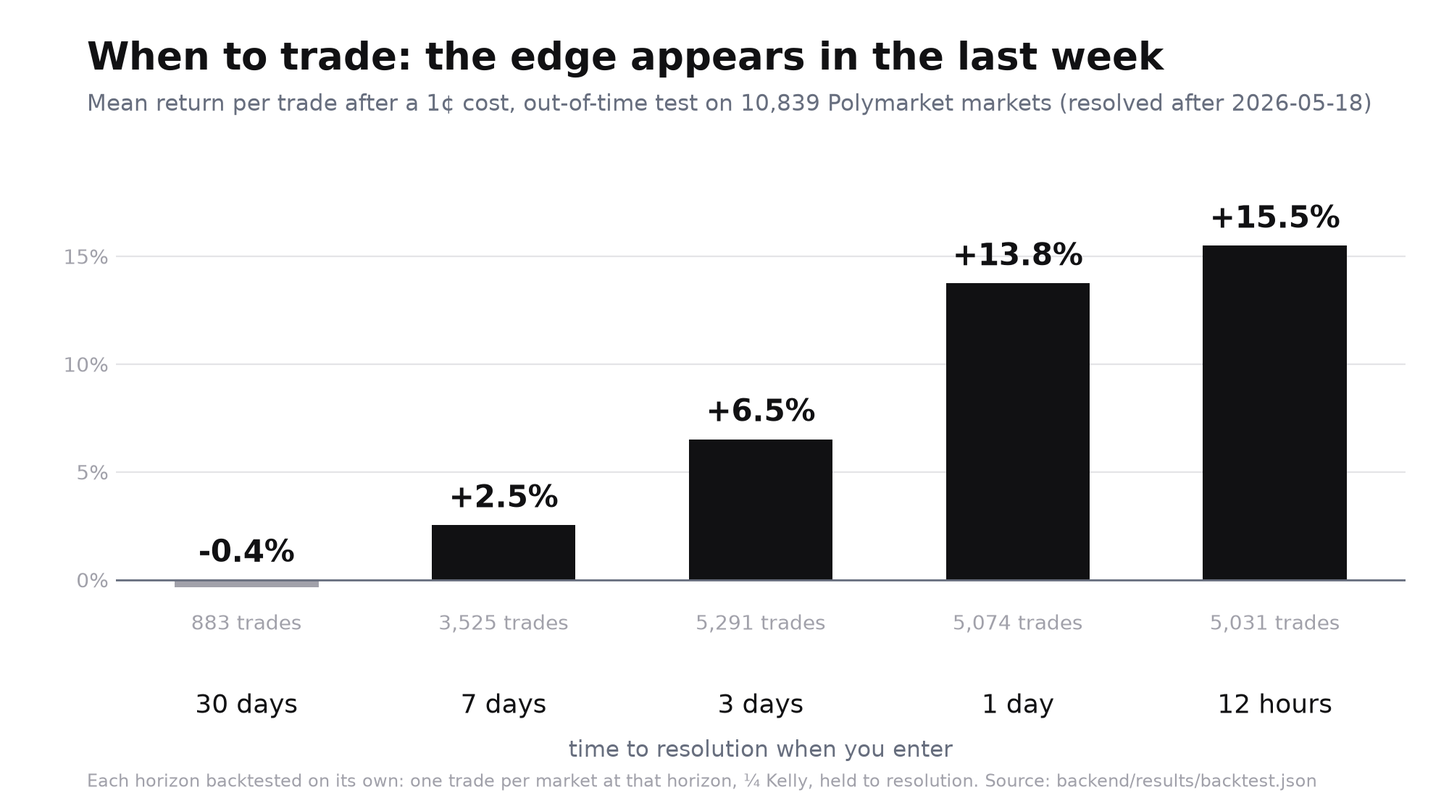
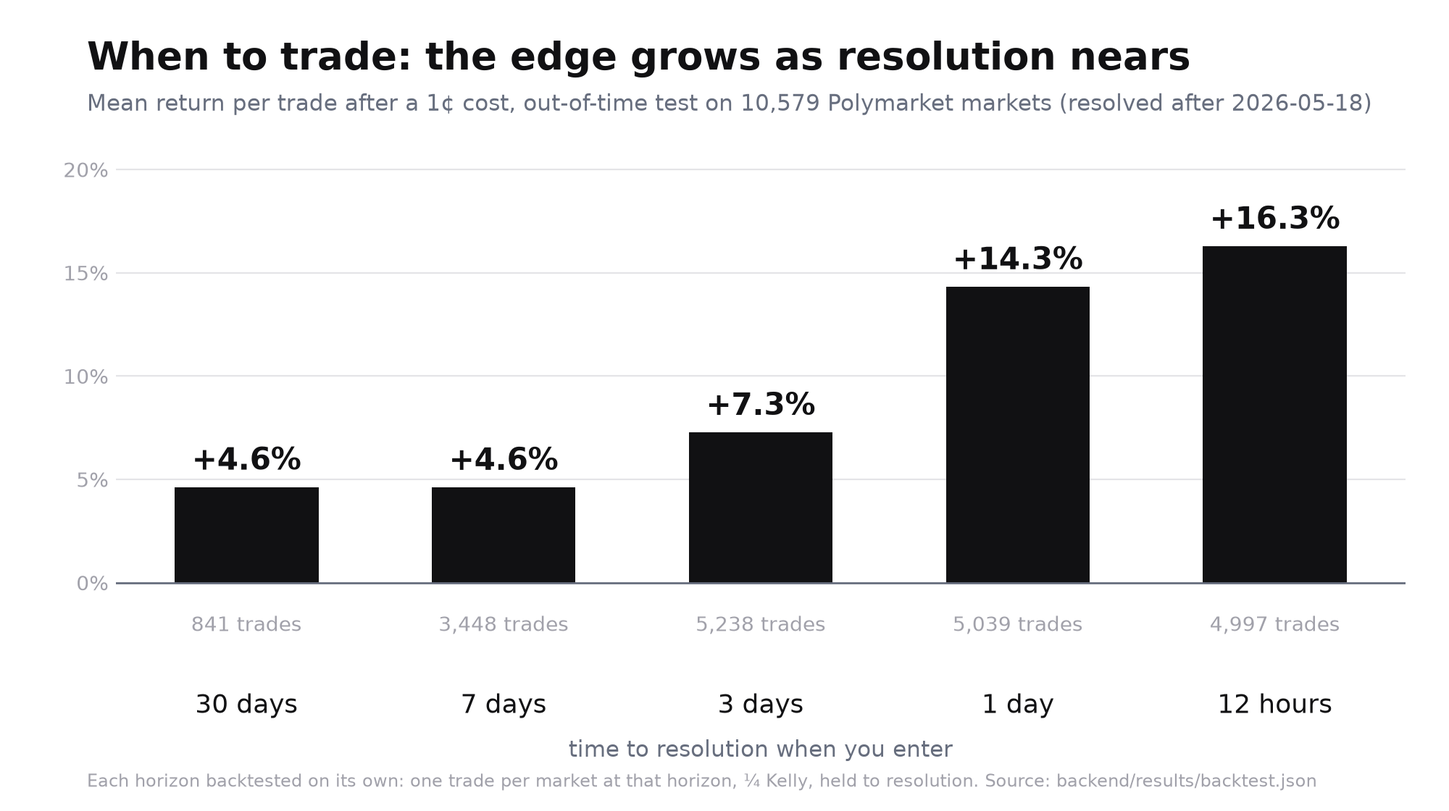
Pitch: A's 14:46 numbers (+304%, test 10,579), forward-test beat, new chart title
All four docs on the rerun after dropping the 260 pre-cutoff legs; '30 days: no edge'
and 'every horizon' removed per A's 14:46/15:20. Script walked against the Vercel screen.

diff --git a/integrations/pitch/make_charts.py b/integrations/pitch/make_charts.py
@@ -37,7 +37,7 @@ def when_to_trade():
     ax.yaxis.set_major_formatter(lambda v, _: f"{v:.0f}%")
     ax.set_xlabel("time to resolution when you enter", fontsize=11, color=MUTED, labelpad=10)
 
-    fig.text(0.06, 0.95, "When to trade: the edge appears in the last week",
+    fig.text(0.06, 0.95, "When to trade: the edge grows as resolution nears",
              fontsize=19, color=INK, fontweight="bold", va="top")
     fig.text(0.06, 0.885,
              f"Mean return per trade after a 1¢ cost, out-of-time test on {bt['n_test_markets']:,} Polymarket markets "

diff --git a/integrations/pitch/QA_CHEATSHEET.md b/integrations/pitch/QA_CHEATSHEET.md
@@ -1,29 +1,32 @@
 # Judge Q&A cheat sheet — HRT (Role C)
 
-Short answers first, detail only if they push. Every number is from `backend/results/*.json` or `backend/model.py` (15:20 Sat).
+Short answers first, detail only if they push. Every number is from `backend/results/*.json` (A's 14:46 rerun, after
+dropping the 260 pre-cutoff test legs) or `backend/model.py`. Checked against the live screen at 15:55 Sat.
 Golden rule: if you don't know, say "we didn't measure that", then say what we would do. Never guess a number.
 
-## The 20 numbers to know cold
+## The numbers to know cold
 | what | value |
 |---|---|
-| markets total / train / test | 34,677 / 23,838 / 10,839 |
-| split | by time: train = events ended before **18 May 2026**, test = after; all legs of an event on one side |
+| markets used / train / test | 34,417 / 23,838 / 10,579 (34,677 pulled; 260 test legs that resolved before the cutoff dropped) |
+| split | by time: train = events ended before **18 May 2026**; test = markets of later events that resolved after it |
 | horizons | 30d, 7d, 3d, 1d, 12h before the **scheduled** end date |
 | price band modelled & traded | 3–97¢ |
-| calibration slope | ≈ 0.85 at every horizon (< 1 = prices overconfident) |
-| Brier, model vs market (test) | **0.1274 vs 0.1281** |
-| log loss, model vs market (test) | 0.3851 vs 0.3871 |
-| validation log loss, market / simple / full | 0.5688 / 0.5645 / 0.5682 → "simple" chosen |
-| trades (with costs) | 7,228 |
-| profit after costs | **+2.77 starting bankrolls**, additive, 90% CI [1.41, 4.07] (event bootstrap) |
-| profit without costs | +7.06 (8,209 trades) |
+| calibration | slope ≈ 0.85 pooled; 30d test about fair (15¢ → 12.8%, n=492), 7d–12h overconfident (15¢ → 18–20%) |
+| Brier, model vs market (test) | **0.1297 vs 0.1305** |
+| log loss, model vs market (test) | 0.3917 vs 0.3940 |
+| validation log loss, market / simple / full | 0.5688 / 0.5645 / 0.5672 → "simple" chosen |
+| trades (with costs) | 7,106 (6,286 buy YES, 820 buy NO) |
+| profit after costs | **+304% of starting bankroll** (3.05 bankrolls, summed), 90% CI [+184%, +440%] (event bootstrap) |
+| profit without costs | +759% (8,054 trades) |
 | hit rate | 24% (longshot-heavy) |
 | max drawdown | **42%** of starting bankroll |
-| concentration | top 10 events = 1.03 of the 2.77 |
-| naive "always back the favourite" | **−7.1** (2% flat stakes, 73% hit rate, same markets) |
-| return per $1 trade by entry horizon (costs) | 30d −0.4% · 7d +2.5% · 3d +6.5% · 1d +13.8% · 12h +15.5% |
+| concentration | top 10 events = 1.03 of the 3.05 bankrolls; without them +2.02 |
+| by domain | sports **+185%** [+111%, +263%] (4,475 trades), science/tech +42% [+16%, +72%]; all others' CIs include 0 |
+| naive "always back the favourite" | **−741%** (2% flat stakes, 8,372 trades, 73% hit rate, same markets) |
+| return per $1 trade by entry horizon (costs) | 30d +4.6% · 7d +4.6% · 3d +7.3% · 1d +14.3% · 12h +16.3% |
 | cost | max(live spread / 2, 1¢) per contract, fee 0 |
 | stake | ¼ Kelly on the conservative q, capped at 5% of starting bankroll |
+| forward test | snapshot 15:43 Sat, 163 open markets ending within 48 h, 75 trades; see `integrations/forward/score.json` |
 
 ## Model
 **Q: What exactly is the model?** Logistic regression, 4 coefficients: intercept, logit(price), log(horizon) and
@@ -31,18 +34,19 @@ logit(price) × log(horizon). It learns how much to shrink each price toward 50%
 resolution.
 
 **Q: Why so simple? Did you try more?** Yes. A "full" version with domain terms (and their interactions) scored worse on
-validation (log loss 0.5682 vs 0.5645), so it overfit. We picked on validation (last 20% of train by time) and never
+validation (log loss 0.5672 vs 0.5645), so it overfit. We picked on validation (last 20% of train by time) and never
 touched test while choosing.
 
-**Q: Brier 0.1274 vs 0.1281 is tiny. Is that significant?** The market is a very strong baseline, so a small gain is
+**Q: Brier 0.1297 vs 0.1305 is tiny. Is that significant?** The market is a very strong baseline, so a small gain is
 what you'd expect. Significance is in the money test, not the Brier: the 90% CI on profit, bootstrapped by event, is
-[1.41, 4.07] and excludes zero. And we only trade where the edge clears costs *and* the model's own 10–90% interval.
+[+184%, +440%] and excludes zero. And we only trade where the edge clears costs *and* the model's own 10–90% interval.
 
 **Q: Why does the bias exist?** We measure it, we don't explain it. Plausible stories: demand for cheap lottery-ticket
 contracts, thin order books near resolution. Don't go further than that.
 
-**Q: Isn't this just the favourite-longshot bias?** Largely yes, and from horse racing that's a known pattern. What we add
-is the *when*: it is only tradable in the last week, and it's worth nothing a month out.
+**Q: Isn't this just the favourite-longshot bias?** Largely yes; it's a known pattern from horse racing. What we add is
+the *when*: the market is about fair a month out and gets overconfident as resolution nears, and the return per trade
+roughly triples from 30 days out (+4.6%) to a day out (+14.3%).
 
 ## Look-ahead and leakage (they WILL ask)
 **Q: How do you know there's no look-ahead?**
@@ -50,22 +54,34 @@ is the *when*: it is only tradable in the last week, and it's worth nothing a mo
    markets close early when the answer is known.
 2. Price = last trade at or before the horizon moment.
 3. A row only exists if the market was still open at that moment.
-4. The train/test split is by time, and all markets of one event stay on one side.
+4. The split is by time, all markets of one event stay on one side, and test markets that resolved before the cutoff
+   are dropped (260 of them: early legs of long events, caught in our own QA).
 5. The model is chosen on validation inside train; test is touched once.
+6. And the forward test can't have look-ahead at all: the calls were pushed to GitHub before the outcomes existed.
 
 **Q: Correlated markets?** "Who wins the Ballon d'Or" is ~30 markets that are basically one bet. That's why the split
 keeps events together, and every CI resamples whole events, not markets.
 
+## Forward test (the one nobody can overfit)
+**Q: How do we know you didn't pick the snapshot after seeing results?** The snapshot file is in a commit pushed to
+GitHub at 15:43 Sat (PR timeline shows the push time), before the matches. Every 2 hours after that a new snapshot was
+pushed, and the scorer takes each market from its *earliest* snapshot. q is a deterministic function of the price and
+the clock, from the same model as the screen (refit reproduces live.json to 5e-5).
+**Q: Which markets are scored?** Only markets whose *scheduled* end date has passed. Scoring "whatever resolved early"
+would select on the outcome ("X by Friday" resolves early only if X happened).
+**Q: So does it prove the edge?** No: a day of trades is far too few. It proves the pipeline makes real calls in real
+time and that we're not fitting history. The evidence for the edge is the backtest's interval.
+
 ## Backtest
 **Q: How is P&L computed?** One trade per market, at the earliest horizon where the net edge is positive, held to
 resolution. Return per $1 = payout / (price + cost) − 1. Stake ¼ Kelly. P&L is added up, not compounded, because
-positions overlap in time.
+positions overlap in time. "+304%" = the sum of stakes × returns, as a share of the starting bankroll.
 
 **Q: 42% drawdown?** Yes. The equity curve falls before it rises: a longshot strategy loses often and wins big. That's the
 honest picture at ¼ Kelly with a 5% cap. A real deployment would size smaller.
 
-**Q: Is it a few lucky events?** Top 10 events are 1.03 of 2.77. That's concentrated, so the CI is computed by
-resampling events, and it still excludes zero.
+**Q: Is it a few lucky events?** Top 10 events are 1.03 of the 3.05 bankrolls, several of them Bitcoin-price ladders.
+Without them it's still +2.02. The CI is computed by resampling events, and it excludes zero.
 
 **Q: Costs?** max(half the quoted spread, 1¢) per contract, no fee. Polymarket's API has no historical order book, so
 for resolved markets it's the 1¢ floor. Live markets show a median spread around 1¢ (≥ $50k volume).
@@ -74,27 +90,25 @@ ask could be worse. Next step: on-chain fills for true historical spreads.
 
 **Q: Capacity?** Not measured. Volume filter is ≥ $50k per market; stakes capped at 5%. We'd need order-book depth.
 
-**Q: Why does 12h look better per trade than 1–7d, if "the edge is 1–7 days"?** The per-horizon chart answers "if you could
-only trade at this horizon". The main backtest enters at the *earliest* horizon with an edge, so most profit is booked
-from 1–7 days out.
+**Q: The per-horizon bars don't add up to 7,106 trades.** Each bar is its own backtest: "if you could only trade at this
+horizon". The main backtest enters at the *earliest* horizon with an edge, once per market.
 
-**Q: Why does the test equity curve start in 2025 if the cutoff is May 2026?** The split is by *event*: an event goes
-to test if its last market resolved after the cutoff, so early legs of long events (e.g. a tennis major's "winner"
-markets) resolved earlier. That's 260 of 10,839 test markets (2.4%). It keeps correlated legs together; for those 260 the model
-was trained on slightly later data. [A to confirm whether dropping them changes the result.]
+**Q: 30 days out calibration is "about fair", but the bar says +4.6%?** The bar is 841 trades, a small, noisy edge;
+the calibration bins at 30d are within noise of fair. We don't claim a month-out edge.
 
 **Q: Test period?** Markets resolved after 18 May 2026: about five months, one regime. That's a fair limitation.
 
 ## Where it fails (say it proudly)
-- 30 days out: no lift (Brier 0.1020 vs 0.1019).
-- Crypto at 1–7 days, politics at most horizons: no lift.
+- 30 days out: no Brier lift (0.1050 vs 0.1051).
+- Crypto at every horizon, culture at every horizon, politics at 3–7 days: no lift. 26 cells in total on the screen.
+- Only sports is solid by domain; everything else's CI includes 0.
 - "Other" domain: 2–3 test markets, too few to say anything.
 - Under 10¢ a day out, contracts resolve YES ~3%. Very cheap longshots are *not* underpriced; the effect is ~10–35¢.
-- By domain after the tweet-count relabel (A, 14:29): sports +1.84 of the 2.77 (4,484 trades).
 
 ## The honesty story (use it if asked "what went wrong?")
 Our first 3,100-market sample said "politics, a month out". On 34,677 markets that didn't replicate: the small sample
 was top-volume and politics-heavy. The direction (overconfident prices) held; the location didn't. We dropped it.
+Second catch: 260 test markets had resolved before the cutoff (early legs of long events). We dropped them and reran.
 
 ## Team / process
 Three roles with Claude Code agents. Agents message each other through per-role inbox files in the repo and review each

diff --git a/integrations/pitch/DEMO_SCRIPT.md b/integrations/pitch/DEMO_SCRIPT.md
@@ -1,54 +1,52 @@
 # Demo script — 90 seconds (Role C, TheMarkz3)
 
-Walked against the real screen (main, 14:36 Sat, localhost) and the numbers in `backend/results/*.json` (14:25 Sat).
-Rule: say only numbers that are on the screen or in `backend/results/`. If Gleb regenerates results, update this file.
-Live cards change hourly — pick the hero card on the morning of the demo (see "Hero card" below).
-Length: ~228 spoken words ≈ 95 s at 145 wpm; ~205 (≈ 85 s) without the (cut first) line — cut it unless you speak fast. Rehearse with a timer; if over, cut the line marked (cut first).
+Walked against the live screen (https://horizon-jet-mu.vercel.app, 15:55 Sat) and `backend/results/*.json` (A's 14:46 rerun).
+Rule: say only numbers that are on the screen or in `backend/results/` / `integrations/forward/score.json`. If results change, update this file.
+Live cards change hourly. Pick the hero card on the morning of the demo (see "Hero card" below).
+Length: ~225 spoken words ≈ 93 s at 145 wpm; ~200 (≈ 83 s) without the (cut first) line. Rehearse with a timer.
 
 ## 0:00–0:10 — hook · screen: headline
 "A prediction-market price is a probability with a clock on it. Research says those prices are off, depending on the
 clock. We asked a trader's question: can you make money on it, and *when*?"
 
-## 0:10–0:25 — honest test · screen: subline + KPI row
-"34,677 resolved Polymarket markets. We train on events that ended before mid-May, test on the 10,839 after, never a
-random split. Out of sample, our model beats the market price: Brier 0.1274 against 0.1281."
+## 0:10–0:22 — honest test · screen: subline + KPI row
+"34,417 resolved Polymarket markets. We train on events that ended before mid-May and test on the 10,579 after, never a
+random split. Out of sample, our model beats the market price: Brier 0.1297 against 0.1305."
 
-## 0:25–0:40 — what it learned · screen: calibration chart (1d)
-"Prices are overconfident. A day out, contracts around 15 cents win 20% of the time. The model learns how far to pull each
-price back, separately for each horizon."
+## 0:22–0:35 — what it learned · screen: calibration chart (1d, then 30d)
+"As resolution nears, prices get overconfident: a day out, 15-cent contracts win 20% of the time."
+(Click 30d.) "A month out, the market is about fair."
 
-## 0:40–1:00 — the decision · screen: Live decisions
+## 0:35–0:55 — the decision · screen: Live decisions
 "So, for every open market right now: price, our probability, and a call after a one-cent cost."
-(Point at hero card.) "[Question]: market [p], model [q]. Buy YES, quarter-Kelly."
-(Point at a "No trade" card.) "Here the gap doesn't cover costs: no trade. A third of the markets are no trade."
+(Point at hero card.) "[Question]: market [p], model [q]. Buy YES, stake [k]% of bankroll."
+(Point at a "No trade" card.) "Here the gap is inside the model's uncertainty: no trade."
 
-## 1:00–1:30 — money, and *when* · screen: equity chart + "When to act" bars
-"On the held-out markets: 7,228 trades, 2.77 starting bankrolls of profit after costs, interval 1.4 to 4.1.
-Always backing the favourite loses 7."
-(Point at "When to act".) "And here's the time part: a month out, it loses. A week out, plus 2.5% a trade. A day out, plus 14."
+## 0:55–1:10 — the forward test · screen: Forward test strip (or terminal `score.json` if it isn't on the screen)
+"Backtests are still history. So yesterday at 3:43 we committed [163] live calls to GitHub, before the matches were
+played. [N] have resolved since: [n] trades, [hit] won, [P&L]." *(Say the real numbers, whatever they are. If it lost:
+"it's [n] trades, far too few to judge, which is why we report the backtest's interval.")*
+
+## 1:10–1:30 — money, and *when* · screen: equity chart + "When to act" bars
+"On the held-out test: 7,106 trades, plus 304% of the starting bankroll after costs, interval 184 to 440.
+Always backing the favourite loses 741."
+(Point at "When to act".) "And the time part: a month out, plus 4.6% a trade. A day out, plus 14."
 (cut first) "Our first small sample said 'politics, a month out'. It didn't replicate on 11 times more data, so we threw it out."
 "Horizon tells you when a market is wrong enough to trade, and when it isn't."
 
 ## Hero card (pick on the day)
-Prefer a **sports BUY_YES** card at 1–7 days, ≥ $1M volume, and a **NO_TRADE** card right next to it.
-At 14:25 Sat that was *Will Kylian Mbappé win the 2026 Ballon d'Or?*: 18.65¢, model 22.7% (interval 22.2–23.1%),
-net edge 2.6¢, ¼-Kelly stake 0.8% of bankroll, ~63 h out, $5.9M volume. It will have resolved by Sunday.
+Prefer a **sports BUY_YES** card at 1–3 days, ≥ $1M volume, and a **No trade** card right next to it.
+Good: a card that is *also* in the forward-test snapshot, so you can say "this one is in the frozen set too".
 
 ## Say it right (judges will check)
-- "+2.77" is **starting-bankroll units, additive** (positions overlap, so no compounding). Say "2.77 times the starting
-  bankroll in profit", never "2.77× return". Mock shows "+2.77×": ask B to label it "bankroll units".
-- Max drawdown with costs is **42%** of the starting bankroll; the equity curve goes down before it goes up.
-  Don't hide it, say it if asked.
-- Top 10 events make up 1.03 of the 2.77. The edge is concentrated, and the event bootstrap CI already includes that.
-- Hit rate is 24%. It's a longshot strategy: many small losses, a few big wins.
-- Costs = max(live spread / 2, 1¢), no fee. Historical spreads don't exist in the API, so 1¢ is a floor, not a measurement.
-- "Longshots underpriced" holds for roughly 10–35¢. Under 10¢ a day out, contracts win ~3%: very cheap ones are not underpriced.
+- "+304%" is **profit as a share of the starting bankroll, summed** (positions overlap, so no compounding). Never "3× return".
+- Max drawdown with costs is **42%** of the starting bankroll; the curve dips before it rises. Say it if asked.
+- Top 10 events make up 1.03 of the 3.05 bankrolls; without them it's still +2.02. The event-bootstrap CI includes that.
+- Only **sports** is solid on its own (+185%, CI +111% to +263%). Every other type's CI includes 0.
+- Hit rate 24%: a longshot strategy, many small losses, a few big wins.
+- Costs = max(live spread / 2, 1¢), no fee. Historical spreads aren't in the API, so 1¢ is a floor, not a measurement.
+- "Longshots underpriced" holds for roughly 10–35¢ from a week out. Under 10¢ a day out, contracts win ~3%: about fair.
+- 30 days out the *calibration* is about fair, yet the per-trade return is +4.6% (841 trades). It's a small, noisy edge
+  there; don't claim more.
 
-## Likely HRT questions
-- *Look-ahead?* Clock = scheduled end date (what a trader knows), price = last trade at or before the horizon, a row
-  exists only if the market was still open, split by time, event legs kept together.
-- *Why does the bias exist?* We measure it; we don't claim to explain it. Candidate stories: longshot demand, thin
-  books close to resolution. Don't speculate past that.
-- *Capacity?* Not measured. Median live spread is about 1¢ on ≥ $50k-volume markets; size is ¼ Kelly capped at 5%.
-- *Where does it fail?* 30 days out (no lift), crypto (no lift at 1–7 days), politics at most horizons; "other" has
-  2–3 test markets, too few to trust. All of these are on the "where it fails" panel.
+## Likely HRT questions → `QA_CHEATSHEET.md`

diff --git a/integrations/pitch/DEVPOST.md b/integrations/pitch/DEVPOST.md
@@ -1,7 +1,7 @@
 # Horizon — Devpost draft (Role C)
 
 Paste section by section into Devpost. Placeholders: `[public URL]`, `[video]`, `[Delta thread links]`, `[team names]`.
-Numbers from `backend/results/*.json` (14:25 Sat) — re-check before submitting.
+Numbers from `backend/results/*.json` (A's 14:46 rerun) — re-check before submitting.
 
 ## Tagline
 Prediction markets are overconfident. Horizon tells you when it pays to trade against them.
@@ -19,19 +19,21 @@ and how far before resolution should you act?
 - Learns a calibration map: the probability a contract really resolves YES, given its price and time to resolution.
 - Turns that into a decision for every open market: buy YES, buy NO, or **no trade, costs eat the edge**, with a
   quarter-Kelly stake.
+- Runs a **forward test**: the model's calls on open markets are pushed to GitHub *before* they resolve, then scored.
 - Shows the evidence on one page: calibration curves per horizon, the backtest with and without costs, and a panel
   listing where the model does **not** work.
 
 ## Results (out of sample)
-Train: events that ended before 18 May 2026 (23,838 markets). Test: the 10,839 after. All markets of one event stay
-on the same side of the split.
-- Prices are overconfident at every horizon (calibration slope ≈ 0.85): favourites win less than priced, 10–35¢
-  contracts win more.
-- The model beats the market price: Brier 0.1274 vs 0.1281, log loss 0.3851 vs 0.3871.
-- Backtest after a 1¢ cost: 7,228 trades, +2.77 starting bankrolls (¼ Kelly, additive), 90% CI [1.41, 4.07] from an
-  event-level bootstrap. Max drawdown 42%. Hit rate 24%.
-- The edge sits 1–7 days before resolution, mostly in sports. 30 days out: no lift.
-- Baseline "always back the favourite" on the same markets: −7.1.
+Train: events that ended before 18 May 2026 (23,838 markets). Test: the 10,579 markets of later events that resolved
+after it. All markets of one event stay on the same side of the split.
+- Prices get overconfident as resolution nears: a month out the test set is about fair; from a week out, favourites
+  win less than priced and 10–35¢ contracts win more (a day out, 15¢ contracts win 20%).
+- The model beats the market price: Brier 0.1297 vs 0.1305, log loss 0.3917 vs 0.3940.
+- Backtest after a 1¢ cost: 7,106 trades, +304% of the starting bankroll (¼ Kelly, summed, no compounding), 90% CI
+  [+184%, +440%] from an event-level bootstrap. Max drawdown 42%. Hit rate 24%.
+- The edge grows as resolution nears: mean return per trade +4.6% a month out, +14.3% a day out. Only sports is solid
+  on its own (+185%, CI +111% to +263%); every other market type's interval includes zero.
+- Baseline "always back the favourite" on the same markets: −741%.
 
 ## How we built it
 - **Data:** Python against Polymarket's Gamma and CLOB APIs. Each horizon is measured from the *scheduled* end date
@@ -41,6 +43,9 @@ on the same side of the split.
   domain terms overfit on validation and lost. Uncertainty intervals come from bootstrapping whole events.
 - **Decision:** edge = model − price; trade only if the edge clears max(spread / 2, 1¢) and the model's bootstrap
   interval; stake = ¼ Kelly capped at 5%.
+- **Forward test:** `integrations/forward_test.py` freezes the model's calls on open markets ending within 48 h and
+  pushes them to GitHub every 2 h; after resolution it scores only markets whose *scheduled* end has passed (no
+  selection on early resolutions). Result by Sunday: [N resolved, n trades, hit rate, P&L — fill from score.json].
 - **App:** FastAPI serving results, Next.js + Tailwind front end.
 - **Team workflow:** three roles (model/backend, front end, data/pitch), each with Claude Code agents. Agents talk
   through per-role inbox files in the repo and review each other's PRs. Collaboration in Zed's Delta: [Delta thread links].
@@ -50,7 +55,8 @@ on the same side of the split.
   month out. A 34,700-market pull didn't replicate it: the small sample was top-volume and politics-heavy. We kept the
   bigger result and kept this story in the pitch.
 - **Look-ahead traps everywhere:** markets that close early, the actual close time vs the scheduled one, correlated
-  legs of one event leaking across a random split.
+  legs of one event leaking across a random split, and early legs of long events that resolved before our cutoff
+  (260 of them, caught in QA, dropped and rerun).
 - **No historical order book:** Polymarket's API has no past spreads, so costs use a 1¢ floor plus live spreads.
 
 ## What we learned
@@ -74,5 +80,5 @@ Brought in: the published finding (arXiv 2602.19520), public Polymarket APIs, op
 design preset. Built at OxHack: the data pipeline, the dataset, the model, the backtest, the API and the app.
 
 ## Gallery images
-- `integrations/pitch/when_to_trade.png`: mean return per trade after costs by entry horizon (30d −0.4% → 12h +15.5%).
+- `integrations/pitch/when_to_trade.png`: mean return per trade after costs by entry horizon (30d +4.6% → 12h +16.3%).
   Regenerate with `python integrations/pitch/make_charts.py` whenever backend/results change.

diff --git a/integrations/pitch/DEVTO_POST.md b/integrations/pitch/DEVTO_POST.md
@@ -33,8 +33,8 @@ We pulled resolved yes/no markets from Polymarket's public APIs and recorded the
 - **Split by time and keep events together.** "Who wins the Ballon d'Or?" is thirty correlated yes/no markets. A random
   split puts some in train and some in test, and the test score becomes fiction.
 
-The final dataset has 34,677 markets. We trained on events that ended before 18 May 2026 and tested on the 10,839
-that ended after.
+The final dataset has 34,677 markets. We trained on events that ended before 18 May 2026 and tested on the 10,579
+that resolved after.
 
 ## Our first result was wrong
 
@@ -52,25 +52,34 @@ you more for showing it.
 
 On the held-out markets:
 
-- Prices are overconfident at every horizon (calibration slope ≈ 0.85).
+- Prices get overconfident as resolution nears: about fair a month out, clearly too extreme from a week out.
 - A four-coefficient calibration model (logistic regression on logit(price), log(horizon) and their product) beats the market
-  price itself: **Brier 0.1274 vs 0.1281**. That's a small gain, but the market price is a hard baseline.
+  price itself: **Brier 0.1297 vs 0.1305**. That's a small gain, but the market price is a hard baseline.
 - Trading only where the edge clears a 1¢ cost and the model's bootstrap interval, at a quarter-Kelly stake:
-  **7,228 trades, +2.77 starting bankrolls**, 90% CI [1.41, 4.07]. Max drawdown 42%. Hit rate 24%: lots of small
+  **7,106 trades, +304% of the starting bankroll**, 90% CI [+184%, +440%]. Max drawdown 42%. Hit rate 24%: lots of small
   losses, a few large wins.
-- "Always back the favourite" on the same markets: **−7.1**.
+- "Always back the favourite" on the same markets: **−741%**.
 
 And the part that fits the theme:
 
 ![Mean return per trade after costs by time to resolution](integrations/pitch/when_to_trade.png)
 <!-- replace with the raw GitHub URL -->
 
-30 days out, the correction buys nothing. The edge shows up in the last week, mostly in sports.
+The return per trade roughly triples between a month out and a day out. By market type, only sports is solid on its
+own; everything else has an interval that includes zero.
+
+## A test we can't overfit
+
+An out-of-time backtest is still history, and we had looked at it many times by Saturday afternoon. So at 15:43 we
+froze the model's calls on every open market ending in the next 48 hours, 163 markets, and pushed them to GitHub before
+any of them resolved, then again every two hours. On Sunday we scored only the markets whose scheduled end date had
+passed: [N resolved, n trades, hit rate, P&L]. That's far too few trades to prove an edge, and we say so. What it shows
+is that the calls are real and made before the answer existed.
 
 ## What doesn't work
 
-Every page needs an honest "where it fails" section, so ours is on the screen too: no lift 30 days out, none in crypto at
-1–7 days, little in politics, and too few test markets in "other" to say anything. Historical spreads aren't available
+Every page needs an honest "where it fails" section, so ours is on the screen too: no Brier lift 30 days out, none in crypto or
+culture at any horizon, and too few test markets in "other" to say anything. Historical spreads aren't available
 from the API, so a 1¢ cost floor stands in for real costs. That's the first thing we'd fix.
 
 ## How we worked
